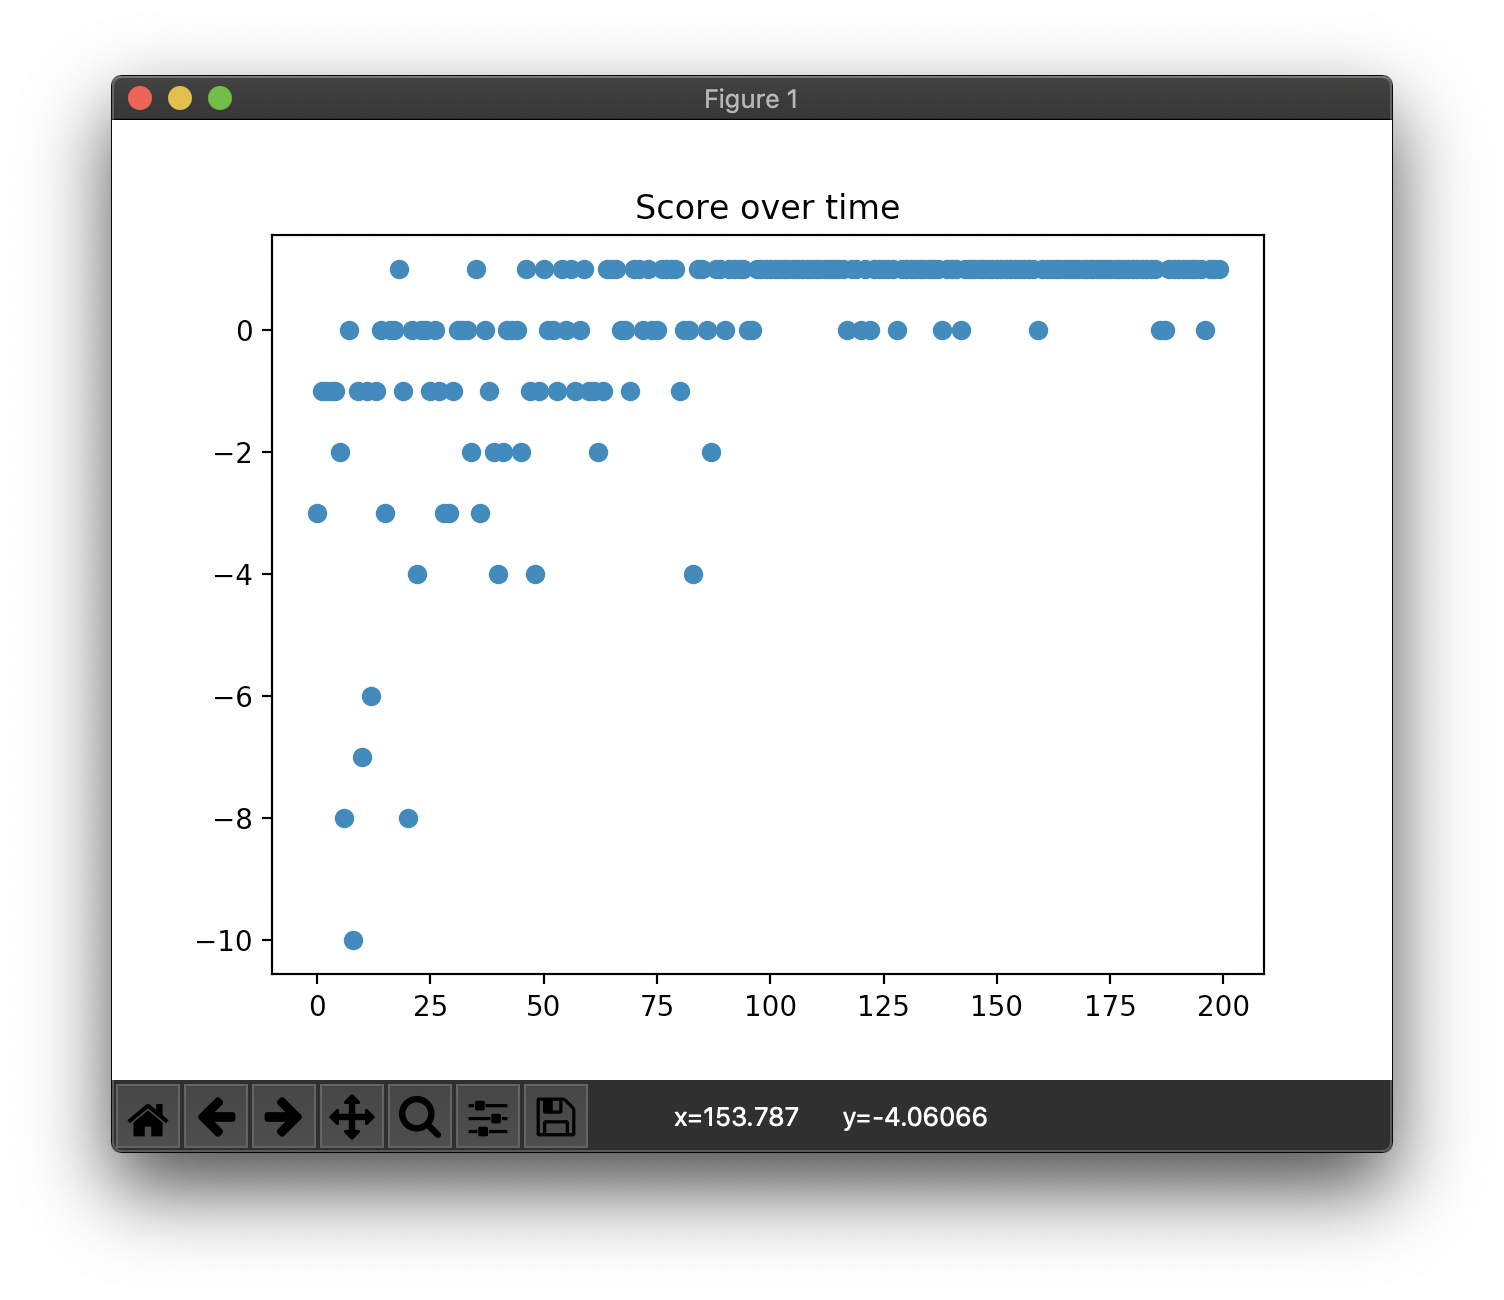
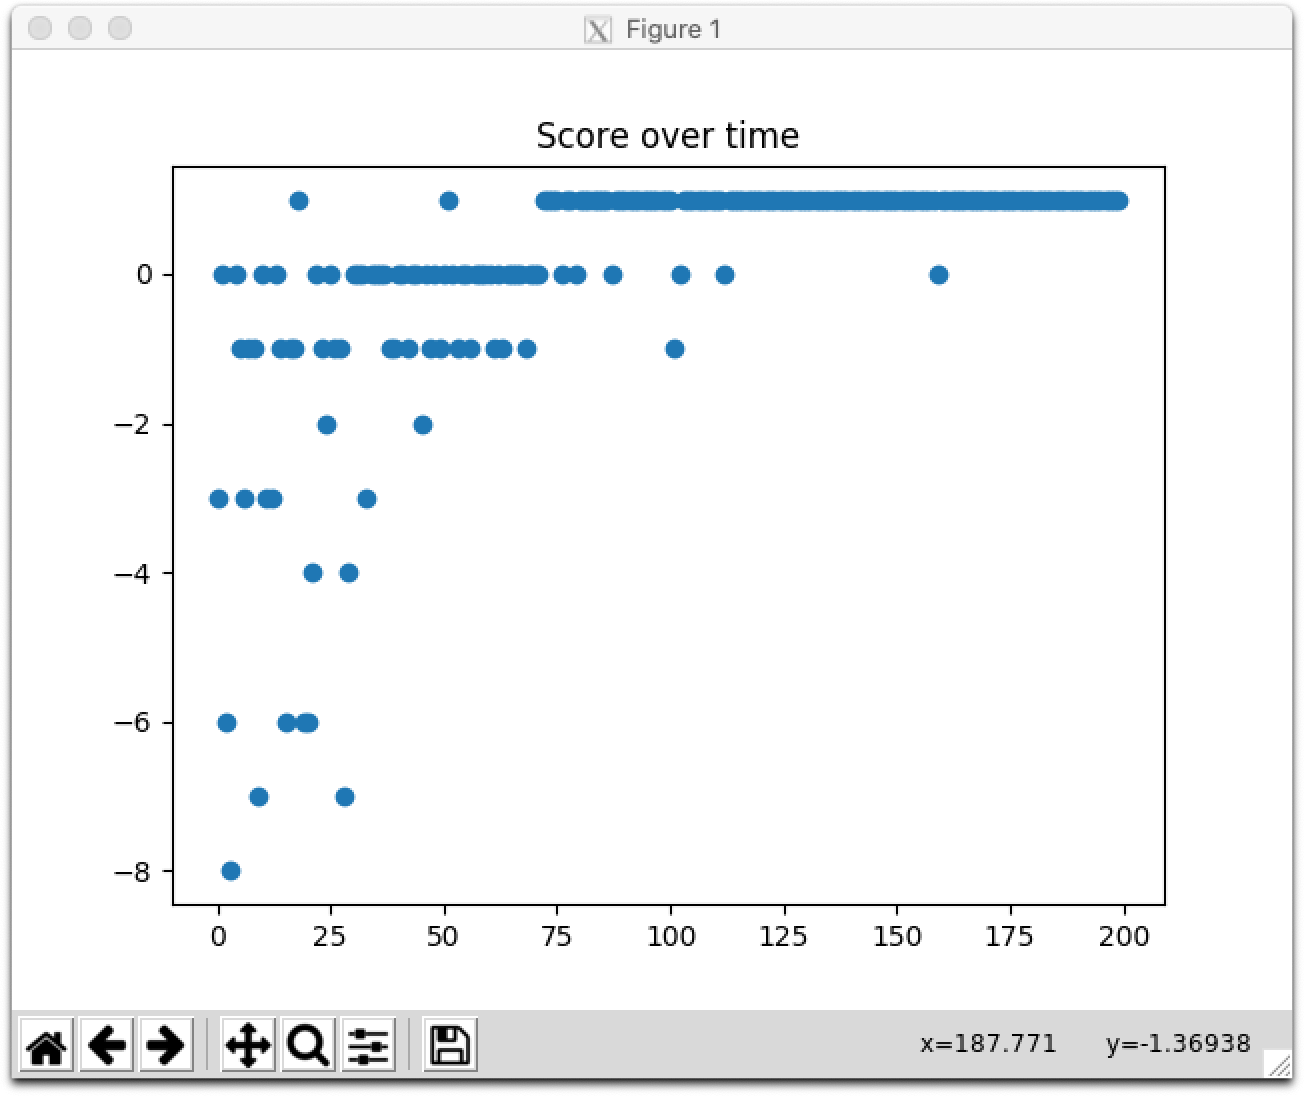
New PER exp.

diff --git a/PER/README.md b/PER/README.md
@@ -27,7 +27,7 @@ Map:
 ## Result
 
 ```
-> Setting: Namespace(e=0.989, lr=0.001, r=200, s=100, y=0.95)
+> Setting: Namespace(e=0.979, lr=0.001, r=200, s=100, y=0.95)
 (Episode:   199, Steps:     9)
 Score over time: 0.065
 ```
@@ -36,42 +36,42 @@ Score over time: 0.065
 
 ```
 Final Q-Table:
-array([[ 0.603,  0.64 ,  0.602,  0.64 ],
-       [ 0.639,  0.666,  0.609,  0.601],
-       [ 0.612,  0.636,  0.633,  0.613],
-       [ 0.62 ,  0.631,  0.625,  0.405],
-       [ 0.582,  0.654,  0.451,  0.582],
-       [ 0.585,  0.621,  0.623,  0.585],
-       [ 0.603,  0.666,  0.64 ,  0.666],
-       [ 0.637,  0.702,  0.641,  0.638],
-       [ 0.627,  0.666,  0.67 ,  0.637],
-       [ 0.615,  0.661,  0.651,  0.652],
-       [ 0.611,  0.628,  0.7  ,  0.623],
-       [ 0.568,  0.603,  0.662,  0.625],
-       [ 0.636,  0.703,  0.667,  0.702],
-       [ 0.665,  0.738,  0.666,  0.665],
-       [ 0.652,  0.693,  0.701,  0.656],
-       [ 0.561,  0.663,  0.685,  0.621],
-       [ 0.656, -0.054,  0.649,  0.591],
-       [ 0.623,  0.569,  0.626,  0.592],
-       [ 0.666,  0.737,  0.705,  0.738],
-       [ 0.703,  0.774,  0.703,  0.7  ],
-       [ 0.671, -0.103,  0.737,  0.663],
-       [ 0.66 ,  0.167,  0.701, -0.044],
-       [ 0.632,  0.999,  0.639,  0.499],
-       [ 0.597, -0.042, -0.064,  0.58 ],
-       [ 0.715,  0.774,  0.736,  0.774],
-       [ 0.738,  0.816,  0.738, -0.187],
-       [ 0.724,  0.856,  0.77 ,  0.072],
-       [ 0.303,  0.374, -0.176,  1.   ],
-       [ 0.572,  0.41 ,  0.564,  0.638],
-       [ 0.624,  0.903,  1.002,  0.034],
-       [ 0.737,  0.775,  0.775,  0.816],
-       [ 0.774,  0.816,  0.775,  0.857],
-       [-0.186,  0.858,  0.816,  0.903],
-       [-0.048,  0.903,  0.859,  0.949],
-       [ 1.   ,  0.951,  0.896,  0.903],
-       [-0.044,  0.905,  0.949,  0.902]])
+array([[ 0.603,  0.631,  0.603,  0.624],
+       [ 0.627,  0.662,  0.603,  0.601],
+       [ 0.623,  0.629,  0.623,  0.577],
+       [ 0.575,  0.604,  0.603,  0.55 ],
+       [ 0.551,  0.575,  0.576,  0.533],
+       [ 0.538,  0.558,  0.55 ,  0.535],
+       [ 0.601,  0.67 ,  0.631,  0.661],
+       [ 0.623,  0.701,  0.64 ,  0.627],
+       [ 0.604,  0.664,  0.66 ,  0.602],
+       [ 0.578,  0.63 ,  0.629,  0.572],
+       [ 0.551,  0.603,  0.602,  0.554],
+       [ 0.536,  0.568,  0.57 ,  0.556],
+       [ 0.64 ,  0.704,  0.668,  0.701],
+       [ 0.655,  0.734,  0.666,  0.68 ],
+       [ 0.631,  0.697,  0.701,  0.632],
+       [ 0.602,  0.647,  0.664,  0.601],
+       [ 0.575, -0.053,  0.631,  0.565],
+       [ 0.555,  0.553,  0.602,  0.568],
+       [ 0.689,  0.741,  0.601,  0.736],
+       [ 0.698,  0.781,  0.563,  0.686],
+       [ 0.664, -0.127,  0.737,  0.642],
+       [ 0.631, -0.098,  0.693,  0.016],
+       [ 0.594,  0.999,  0.474,  0.466],
+       [ 0.572,  0.182,  0.1  ,  0.55 ],
+       [ 0.707,  0.779,  0.741,  0.781],
+       [ 0.737,  0.811,  0.744, -0.099],
+       [ 0.908,  0.862,  0.776,  0.466],
+       [ 0.39 ,  0.903, -0.104,  0.991],
+       [ 0.41 ,  0.689,  0.605,  0.697],
+       [ 0.561,  0.945,  0.913,  0.271],
+       [ 0.739,  0.777,  0.779,  0.811],
+       [ 0.78 ,  0.811,  0.778,  0.858],
+       [-0.123,  0.858,  0.809,  0.902],
+       [-0.074,  0.904,  0.857,  0.951],
+       [ 0.999,  0.954,  0.92 ,  0.904],
+       [ 0.389,  0.915,  0.952,  0.886]])
 Map:
 [['Start    ', 'Normal   ', 'Normal   ', 'Normal   ', 'Normal   ', 'Normal   '],
  ['Normal   ', 'Normal   ', 'Normal   ', 'Normal   ', 'Normal   ', 'Normal   '],
@@ -80,10 +80,10 @@ Map:
  ['Normal   ', 'Normal   ', 'Obstacle ', 'Obstacle ', 'Goal     ', 'Obstacle '],
  ['Normal   ', 'Normal   ', 'Normal   ', 'Normal   ', 'Normal   ', 'Normal   ']]
 Q-map:
-[['Down     ', 'Down     ', 'Down     ', 'Down     ', 'Down     ', 'Left     '],
- ['Right    ', 'Down     ', 'Left     ', 'Down     ', 'Left     ', 'Left     '],
- ['Down     ', 'Down     ', 'Left     ', 'Left     ', 'Up       ', 'Left     '],
- ['Right    ', 'Down     ', 'Left     ', 'Left     ', 'Down     ', 'Up       '],
- ['Down     ', 'Down     ', 'Down     ', 'Right    ', 'Right    ', 'Left     '],
+[['Down     ', 'Down     ', 'Down     ', 'Down     ', 'Left     ', 'Down     '],
+ ['Down     ', 'Down     ', 'Down     ', 'Down     ', 'Down     ', 'Left     '],
+ ['Down     ', 'Down     ', 'Left     ', 'Left     ', 'Left     ', 'Left     '],
+ ['Down     ', 'Down     ', 'Left     ', 'Left     ', 'Down     ', 'Up       '],
+ ['Right    ', 'Down     ', 'Up       ', 'Right    ', 'Right    ', 'Down     '],
  ['Right    ', 'Right    ', 'Right    ', 'Right    ', 'Up       ', 'Left     ']]
 ```
